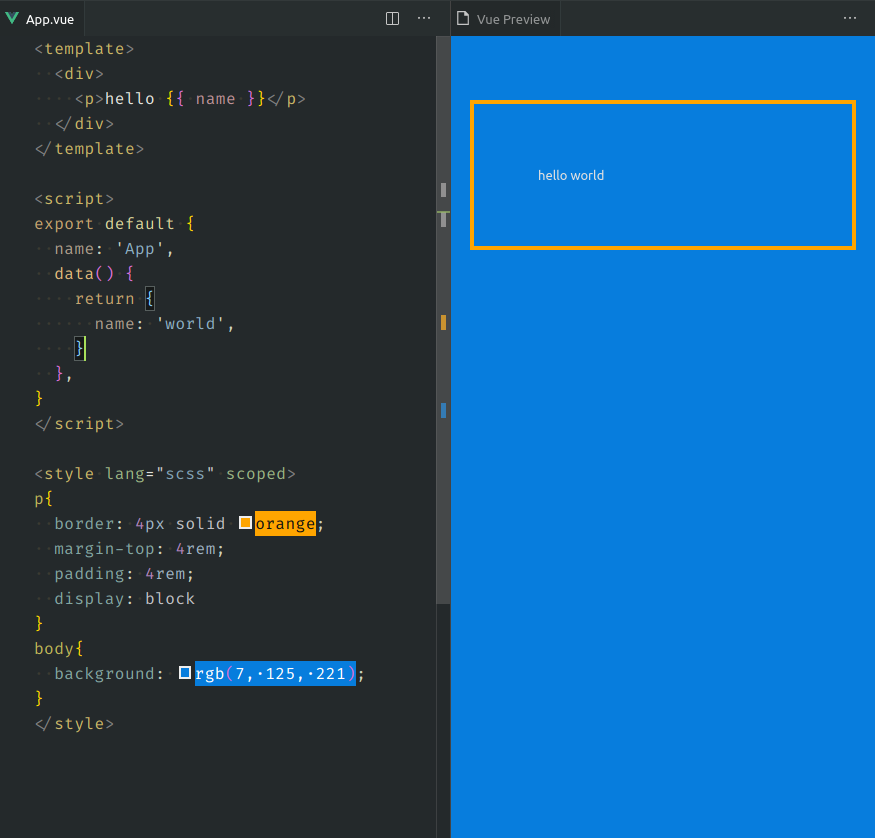
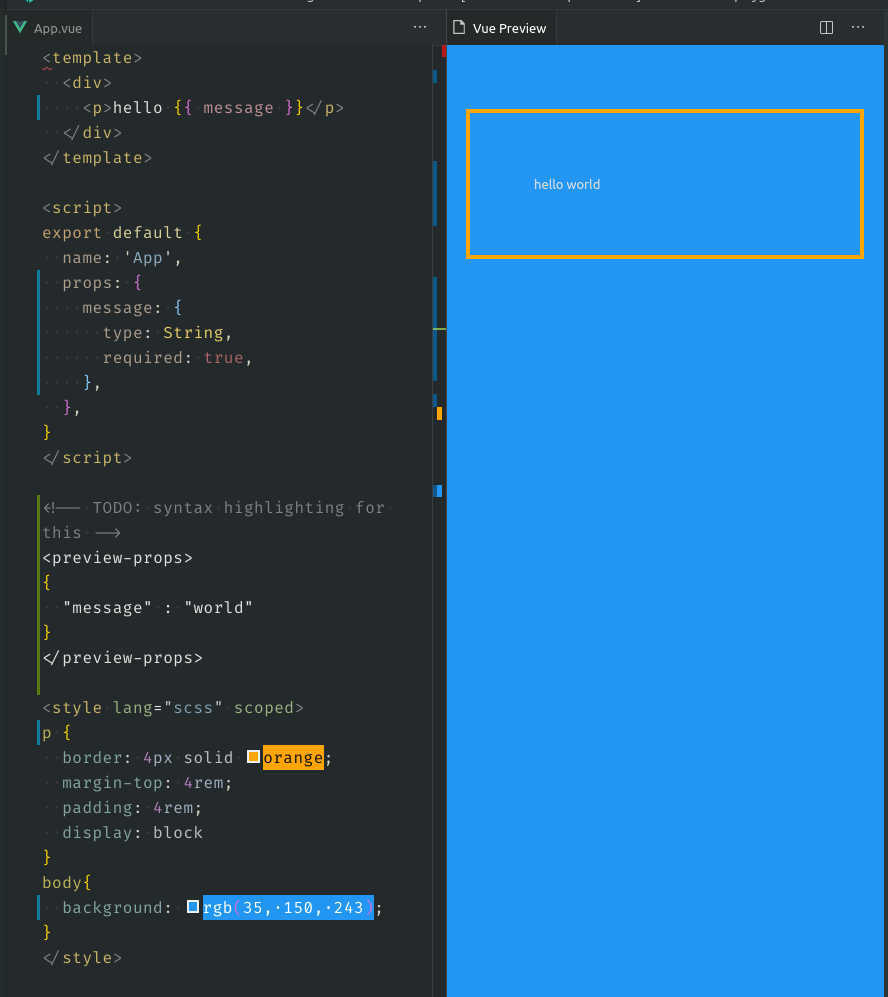
feat: preview props

diff --git a/packages/preview/src/previewMain.ts b/packages/preview/src/previewMain.ts
@@ -52,6 +52,41 @@ const vscode = acquireVsCodeApi()
 
 // api.reload(Component)
 
+const messageChannel = (() => {
+  const listeners: { [command: string]: any[] } = {}
+  return {
+    onMessage: (command: string, listener: (payload: any) => void) => {
+      listeners[command] = listeners[command] || []
+      listeners[command].push(listener)
+    },
+    broadcastMessage: (command: string, payload: any) => {
+      if (!listeners[command]) {
+        return
+      }
+      for (const listener of listeners[command]) {
+        listener(payload)
+      }
+    },
+  }
+})()
+
+// const component = (() => {
+//   let newComponent:any
+//   return {
+//     set script(value){
+//       if(!newComponent){}
+//     },
+//     set render(value){},
+//     scheduleRerender: () => {},
+//     scheduleReload: () => {},
+//   }
+// })()
+
+// const remotePluginApi: RemotePluginApi = {
+//   messageChannel,
+//   component,
+// }
+
 window.addEventListener('message', event => {
   const { command, payload } = JSON.parse(event.data)
   if (command === 'update') {
@@ -65,9 +100,12 @@ window.addEventListener('message', event => {
     }
     console.log(newComponent)
     api.reload(newComponent)
-    api.rerender(newComponent)
+    // api.rerender(newComponent)
     if (component.style !== undefined) {
       style.update(component.style)
+    }
+    if (component.previewProps) {
+      api.reloadProps(component.previewProps)
     }
   }
 })

diff --git a/packages/extension/src/compile.ts b/packages/extension/src/compile.ts
@@ -9,6 +9,7 @@ export const compile = ({ source }) => {
     filename: 'x.vue',
   }) //?
   parsed
+  const previewProps = parsed.customBlocks.find(block=>block.type==='preview-props')?.content//?
   const template = parsed.template.content //?
   const style = parsed.styles[0]?.content //?
   let script = parsed.script?.content //?
@@ -20,23 +21,46 @@ export const compile = ({ source }) => {
   return {
     render,
     style,
-    script
+    script,
+    previewProps
   }
 }
 
-// compile({ source: `<template><h1>hello</h1></template><style scoped>
-// button{
-//   color:green;
-// }
-// </style><script>
+// compile({ source: `<template>
+// <div>
+//   <p>hello {{ message }}</p>
+// </div>
+// </template>
+
+// <script>
 // export default {
-//   data(){
-//     return {
-//       count: 0
-//     }
-//   }
+// name: 'App',
+// props: {
+//   message: {
+//     type: String,
+//     required: true,
+//   },
+// },
 // }
-// </script>`})//?
+// </script>
+
+// <preview-props>
+// {
+// "message" : "hello world"
+// }
+// </preview-props>
+
+// <style lang="scss" scoped>
+// p{
+// border: 4px solid orange;
+// margin-top: 4rem;
+// padding: 4rem;
+// display: block
+// }
+// body{
+// background: rgb(71, 189, 110);
+// }
+// </style>`})//?
 
 // const staticRenderFns = '[' + compiled.staticRenderFns.map(toFunction).join(',') + ']'
 

diff --git a/packages/extension/src/Preview.ts b/packages/extension/src/Preview.ts
@@ -2,6 +2,21 @@ import * as vscode from 'vscode'
 import { getPreviewBase, getNonce, getPreviewBaseWebview } from './webviewUtils'
 import { compile } from './compile'
 
+const measureExecutionTime: (fn: () => void) => void = fn => {
+  const NS_PER_MS = 1e6
+  const NS_PER_SEC = 1e9
+  const start = process.hrtime()
+  fn()
+  const elapsedTime = process.hrtime(start)
+  const elapsedTimeMs = (elapsedTime[0] * NS_PER_SEC + elapsedTime[1]) / NS_PER_MS
+
+  const maxAllowedTime = 5
+  if (elapsedTimeMs > maxAllowedTime) {
+    false && vscode.window.showErrorMessage(`performance violation: ${elapsedTimeMs}ms`)
+    console.log('took: ' + elapsedTimeMs)
+  }
+}
+
 const getPreviewHtml = ({
   context,
   webview,
@@ -54,6 +69,7 @@ export const createPreviewPanel = ({ context }: { context: vscode.ExtensionConte
             render: compiled.render,
             style: compiled.style,
             script: compiled.script,
+            previewProps: compiled.previewProps,
           },
         },
       })
@@ -72,6 +88,8 @@ export const createPreviewPanel = ({ context }: { context: vscode.ExtensionConte
     if (event.document.uri.fsPath !== vscode.window.activeTextEditor.document.uri.fsPath) {
       return
     }
+    // measureExecutionTime(() => {
     update({ source: event.document.getText() })
+    // })
   })
 }

diff --git a/packages/preview/src/template.ts b/packages/preview/src/template.ts
@@ -6,18 +6,40 @@ api.install(Vue)
 
 const ComponentId = 'component'
 let Component
+let RootComponent
 
 const init = newComponent => {
   api.createRecord(ComponentId, newComponent)
-  new Vue({
+  RootComponent = new Vue({
     el: '#app',
-    render: h => h(newComponent),
+    data() {
+      return {
+        props: {
+          message: 'world',
+        },
+      }
+    },
+    render(h) {
+      return h(newComponent, {
+        props: this.props,
+      })
+    },
   })
   Component = newComponent
   return true
 }
 
-const notExists = (): boolean => !Component
+const notExists: () => boolean = () => !Component
+
+export const reloadProps = newProps => {
+  RootComponent.props = JSON.parse(newProps)
+}
+
+// setTimeout(() => {
+//   reloadProps({
+//     message: 'world 2',
+//   })
+// }, 2000)
 
 /**
  * updates the component and its state

diff --git a/playground/App.vue b/playground/App.vue
@@ -1,32 +1,36 @@
 <template>
   <div>
-    <p>hello {{ name }}</p>
-    <button>this is a button</button>
-
-    <p @click="count++">count: {{ count }}</p>
+    <p>hello {{ message }}</p>
   </div>
 </template>
 
 <script>
 export default {
   name: 'App',
-  data() {
-    return {
-      name: 'world',
-      count: 0,
-    }
+  props: {
+    message: {
+      type: String,
+      required: true,
+    },
   },
 }
 </script>
 
+<!-- TODO: syntax highlighting for this -->
+<preview-props>
+{
+  "message" : "world"
+}
+</preview-props>
+
 <style lang="scss" scoped>
-p{
+p {
   border: 4px solid orange;
   margin-top: 4rem;
   padding: 4rem;
   display: block
 }
 body{
-  background: rgb(7, 125, 221);
+  background: rgb(35, 150, 243);
 }
 </style>

diff --git a/packages/preview/src/plugins/remotePluginApi.ts b/packages/preview/src/plugins/remotePluginApi.ts
@@ -1,0 +1,14 @@
+export interface RemotePluginApi {
+  messageChannel: {
+    onMessage: (command: string, listener: (payload: any) => void) => void
+    broadcastMessage: (command: string, payload: any) => void
+  }
+  component: {
+    script?: object
+    render?: Function
+    scheduleReload: () => void
+    scheduleRerender: () => void
+  }
+}
+
+export type RemotePlugin = (api: RemotePluginApi) => void

diff --git a/packages/preview/src/plugins/remote-plugin-style/remotePluginStyle.ts b/packages/preview/src/plugins/remote-plugin-style/remotePluginStyle.ts
@@ -1,0 +1,9 @@
+import { RemotePlugin } from '../remotePluginApi'
+
+const $style = document.getElementById('style') as HTMLStyleElement
+
+export const remotePluginStyle: RemotePlugin = api => {
+  api.messageChannel.onMessage('updateStyle', payload => {
+    $style.innerText = payload.style
+  })
+}

diff --git a/packages/preview/src/plugins/remote-plugin-render/remotePluginRender.ts b/packages/preview/src/plugins/remote-plugin-render/remotePluginRender.ts
@@ -1,0 +1,8 @@
+import { RemotePlugin } from '../remotePluginApi'
+
+export const remotePluginRender: RemotePlugin = api => {
+  api.messageChannel.onMessage('updateRender', payload => {
+    api.component.render = new Function(payload.render)
+    api.component.scheduleRerender()
+  })
+}

diff --git a/packages/preview/src/plugins/remote-plugin-script/remotePluginScript.ts b/packages/preview/src/plugins/remote-plugin-script/remotePluginScript.ts
@@ -1,0 +1,8 @@
+import { RemotePlugin } from '../remotePluginApi'
+
+export const remotePluginScript: RemotePlugin = api => {
+  api.messageChannel.onMessage('updateScript', payload => {
+    api.component.script = eval(payload.script)
+    api.component.scheduleReload()
+  })
+}

diff --git a/packages/preview/src/plugins/remote-plugin-core/remotePluginCore.ts b/packages/preview/src/plugins/remote-plugin-core/remotePluginCore.ts
@@ -1,0 +1,3 @@
+import { RemotePlugin } from '../remotePluginApi'
+
+export const remotePluginCore: RemotePlugin = () => {}

diff --git a/CHANGELOG.md b/CHANGELOG.md
@@ -2,6 +2,8 @@
 
 | Version | Date     | Changelog                                       |
 | ------- | -------- | ----------------------------------------------- |
+| 1.2.0   | 16.10.19 | &mdash; **[Feature]** Preview Props             |
+| 1.1.1   | 16.10.19 | &mdash; **[Fix]** Don't open by default         |
 | 1.1.0   | 09.10.19 | &mdash; **[Feature]** Open Preview with Command |
 | 1.0.1   | 09.10.19 | &mdash; First working release                   |
 | 1.0.0   | 09.10.19 | &mdash; First release                           |
